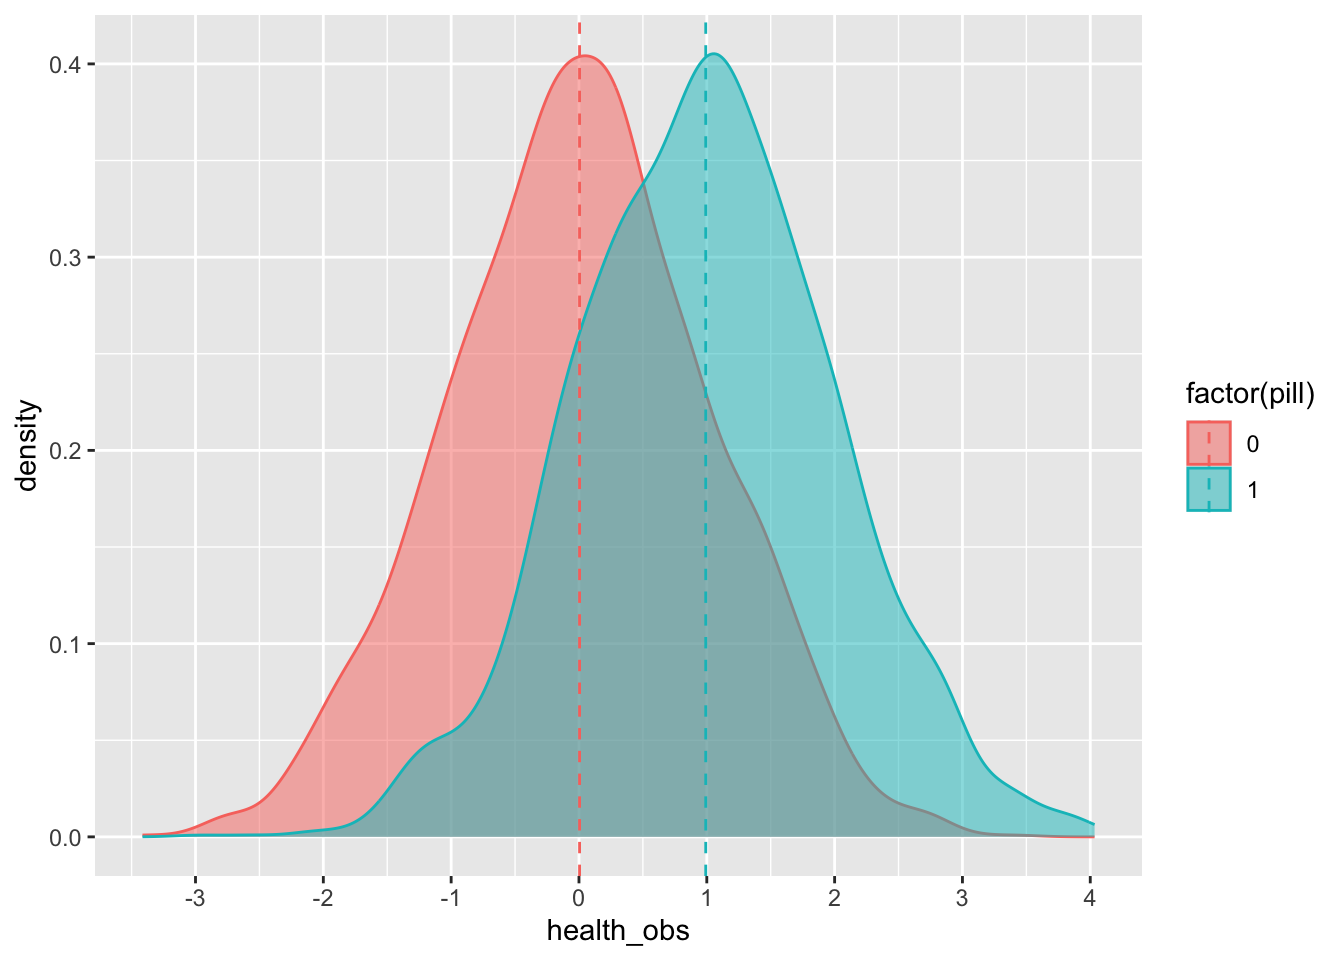
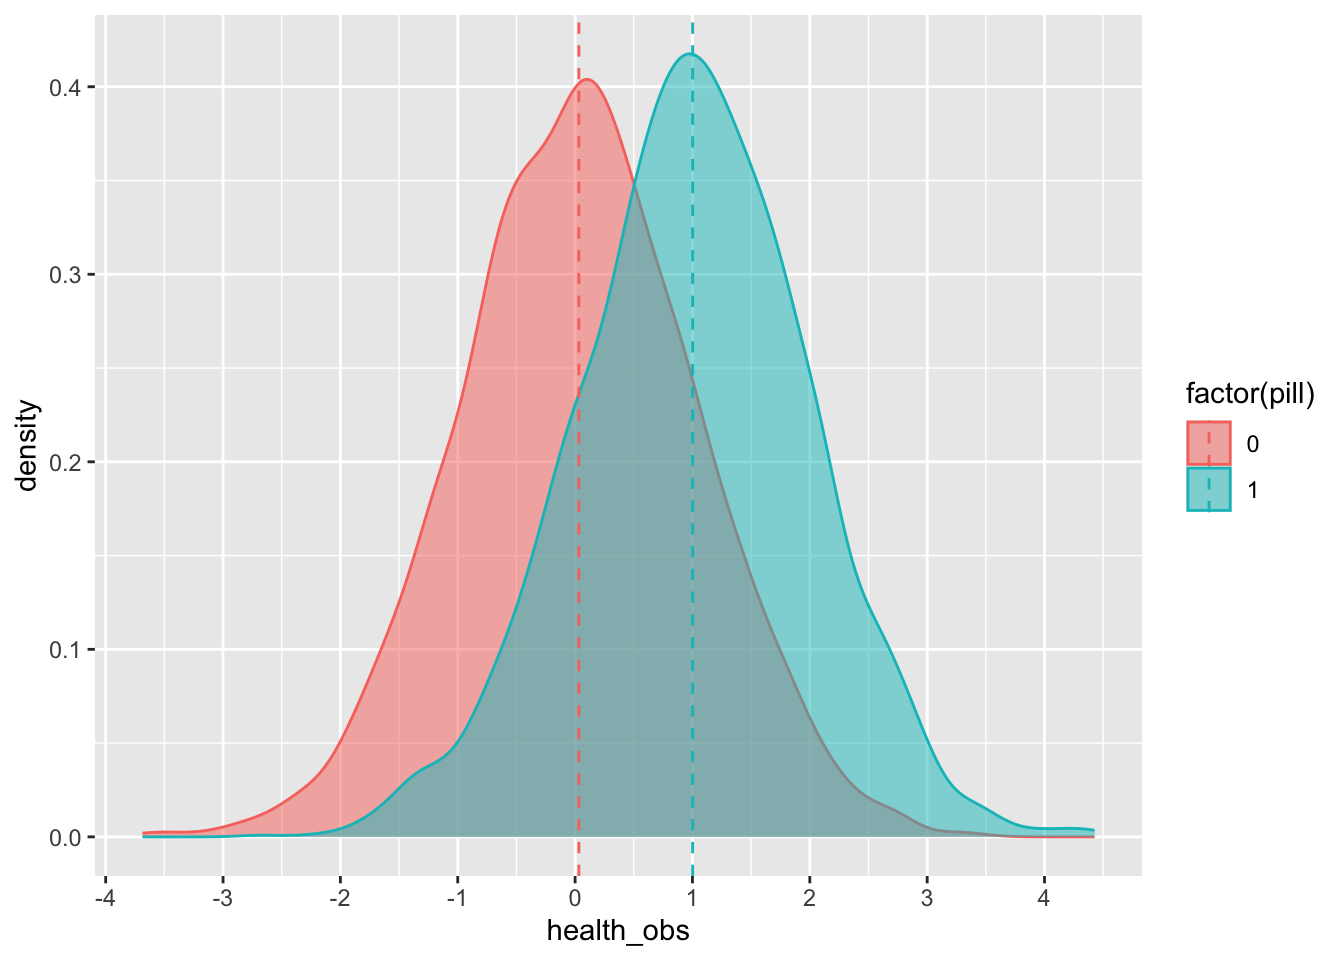
fix?

diff --git a/docs/lecture-2-introduction-to-causal-inference.html b/docs/lecture-2-introduction-to-causal-inference.html
@@ -105,11 +105,11 @@ Figure 2.1: Slides for 3 Introduction to Causal Inference.
 <tbody>
 <tr class="odd">
 <td align="left">0</td>
-<td align="right">2509</td>
+<td align="right">2498</td>
 </tr>
 <tr class="even">
 <td align="left">1</td>
-<td align="right">2491</td>
+<td align="right">2502</td>
 </tr>
 </tbody>
 </table></div>
@@ -146,17 +146,17 @@ Figure 2.1: Slides for 3 Introduction to Causal Inference.
 <pre><code>## mutate: new variable 'health_obs' (double) with 5,000 unique values and 0% NA</code></pre>
 <div class="sourceCode" id="cb12"><pre class="downlit sourceCode r">
 <code class="sourceCode R"><span><span class="fu"><a href="https://rdrr.io/r/utils/head.html">head</a></span><span class="op">(</span><span class="va">df</span>,<span class="fl">10</span><span class="op">)</span></span></code></pre></div>
-<pre><code>##    health_no_pill pill health_w_pill  health_obs
-## 1      0.07330383    1    1.07330383  1.07330383
-## 2     -0.91415442    1    0.08584558  0.08584558
-## 3     -0.80625248    0    0.19374752 -0.80625248
-## 4      0.39410425    0    1.39410425  0.39410425
-## 5      0.77086629    0    1.77086629  0.77086629
-## 6     -2.49958985    0   -1.49958985 -2.49958985
-## 7      0.88305789    0    1.88305789  0.88305789
-## 8      0.94148752    1    1.94148752  1.94148752
-## 9      0.78461707    0    1.78461707  0.78461707
-## 10    -0.04894714    0    0.95105286 -0.04894714</code></pre>
+<pre><code>##    health_no_pill pill health_w_pill health_obs
+## 1      -0.2144358    0     0.7855642 -0.2144358
+## 2       1.0776460    1     2.0776460  2.0776460
+## 3      -1.4136914    0    -0.4136914 -1.4136914
+## 4      -0.7771677    0     0.2228323 -0.7771677
+## 5      -0.5901076    1     0.4098924  0.4098924
+## 6       0.6809355    1     1.6809355  1.6809355
+## 7      -0.2872388    1     0.7127612  0.7127612
+## 8      -0.8326362    1     0.1673638  0.1673638
+## 9       0.1121886    0     1.1121886  0.1121886
+## 10      0.3035960    1     1.3035960  1.3035960</code></pre>
 <p>We can see the average effect of the pill on the treated group (remember from the lecture that the <em>effect</em> is, in essence, the <em>difference</em> between those who receive the treatment, and those who do not):</p>
 <div class="sourceCode" id="cb14"><pre class="downlit sourceCode r">
 <code class="sourceCode R"><span><span class="va">df</span> <span class="op"><a href="https://magrittr.tidyverse.org/reference/pipe.html">%&gt;%</a></span></span>
@@ -165,10 +165,10 @@ Figure 2.1: Slides for 3 Introduction to Causal Inference.
 <pre><code>## group_by: one grouping variable (pill)
 ## summarize: now 2 rows and 2 columns, ungrouped</code></pre>
 <pre><code>## # A tibble: 2 × 2
-##    pill  health
-##   &lt;dbl&gt;   &lt;dbl&gt;
-## 1     0 0.00473
-## 2     1 0.992</code></pre>
+##    pill health
+##   &lt;dbl&gt;  &lt;dbl&gt;
+## 1     0 0.0320
+## 2     1 1.00</code></pre>
 <p>Or we can plot it:</p>
 <div class="sourceCode" id="cb17"><pre class="downlit sourceCode r">
 <code class="sourceCode R"><span><span class="va">df</span> <span class="op"><a href="https://magrittr.tidyverse.org/reference/pipe.html">%&gt;%</a></span></span>
@@ -205,16 +205,16 @@ Figure 2.1: Slides for 3 Introduction to Causal Inference.
 <div class="sourceCode" id="cb21"><pre class="downlit sourceCode r">
 <code class="sourceCode R"><span><span class="fu"><a href="https://rdrr.io/r/utils/head.html">head</a></span><span class="op">(</span><span class="va">df</span>,<span class="fl">10</span><span class="op">)</span></span></code></pre></div>
 <pre><code>##        income health_no_pill health_w_pill  pill health_obs
-## 1  0.90978923      0.9156704     1.9156704  TRUE  1.9156704
-## 2  0.97036087      1.7628784     2.7628784  TRUE  2.7628784
-## 3  0.05888647      0.9284269     1.9284269 FALSE  0.9284269
-## 4  0.64419645      1.2325894     2.2325894 FALSE  1.2325894
-## 5  0.70617119      1.2330499     2.2330499  TRUE  2.2330499
-## 6  0.91608282      0.5918929     1.5918929  TRUE  1.5918929
-## 7  0.47175325      1.2974245     2.2974245 FALSE  1.2974245
-## 8  0.17142790     -0.3309304     0.6690696 FALSE -0.3309304
-## 9  0.63707778      0.3901511     1.3901511 FALSE  0.3901511
-## 10 0.54287154     -1.1529597    -0.1529597 FALSE -1.1529597</code></pre>
+## 1  0.07839879      0.9316725     1.9316725 FALSE  0.9316725
+## 2  0.58013257      0.4381563     1.4381563 FALSE  0.4381563
+## 3  0.86659620      2.5904764     3.5904764  TRUE  3.5904764
+## 4  0.66256664      0.8259672     1.8259672 FALSE  0.8259672
+## 5  0.81855600      1.4384962     2.4384962  TRUE  2.4384962
+## 6  0.37643834     -1.7711729    -0.7711729 FALSE -1.7711729
+## 7  0.62198266      2.3827782     3.3827782 FALSE  2.3827782
+## 8  0.56795280      0.1353779     1.1353779 FALSE  0.1353779
+## 9  0.74269525      0.7055106     1.7055106  TRUE  1.7055106
+## 10 0.43959064      0.6917025     1.6917025 FALSE  0.6917025</code></pre>
 <p>Let’s see what happens now to the estimated mean average ‘effect’ (remember from the lecture that the <em>effect</em> is, in essence, the <em>difference</em> between those who receive the treatment, and those who do not):</p>
 <div class="sourceCode" id="cb23"><pre class="downlit sourceCode r">
 <code class="sourceCode R"><span><span class="va">df</span> <span class="op"><a href="https://magrittr.tidyverse.org/reference/pipe.html">%&gt;%</a></span></span>
@@ -225,22 +225,22 @@ Figure 2.1: Slides for 3 Introduction to Causal Inference.
 <pre><code>## # A tibble: 2 × 2
 ##   pill  health
 ##   &lt;lgl&gt;  &lt;dbl&gt;
-## 1 FALSE  0.345
-## 2 TRUE   1.81</code></pre>
+## 1 FALSE  0.359
+## 2 TRUE   1.84</code></pre>
 <p>Oh no! That is more than the actual effect of the pill, which we <em>know</em> is 1 since we created it. However, if we were to properly model (this is an RDD!), then (remember from the lecture that the <em>effect</em> is, in essence, the <em>difference</em> between those who receive the treatment, and those who do not):</p>
 <div class="sourceCode" id="cb26"><pre class="downlit sourceCode r">
 <code class="sourceCode R"><span><span class="va">df</span> <span class="op"><a href="https://magrittr.tidyverse.org/reference/pipe.html">%&gt;%</a></span></span>
 <span>  <span class="fu">filter</span><span class="op">(</span><span class="fu"><a href="https://rdrr.io/r/base/MathFun.html">abs</a></span><span class="op">(</span><span class="va">income</span><span class="op">-</span><span class="fl">.7</span><span class="op">)</span><span class="op">&lt;</span><span class="fl">.01</span><span class="op">)</span> <span class="op"><a href="https://magrittr.tidyverse.org/reference/pipe.html">%&gt;%</a></span></span>
 <span>  <span class="fu">group_by</span><span class="op">(</span><span class="va">pill</span><span class="op">)</span> <span class="op"><a href="https://magrittr.tidyverse.org/reference/pipe.html">%&gt;%</a></span></span>
 <span>  <span class="fu">summarize</span><span class="op">(</span>health <span class="op">=</span> <span class="fu"><a href="https://rdrr.io/r/base/mean.html">mean</a></span><span class="op">(</span><span class="va">health_obs</span><span class="op">)</span><span class="op">)</span> <span class="co">## BOOM!!</span></span></code></pre></div>
-<pre><code>## filter: removed 9,823 rows (98%), 177 rows remaining
+<pre><code>## filter: removed 9,818 rows (98%), 182 rows remaining
 ## group_by: one grouping variable (pill)
 ## summarize: now 2 rows and 2 columns, ungrouped</code></pre>
 <pre><code>## # A tibble: 2 × 2
 ##   pill  health
 ##   &lt;lgl&gt;  &lt;dbl&gt;
-## 1 FALSE  0.505
-## 2 TRUE   1.61</code></pre>
+## 1 FALSE  0.547
+## 2 TRUE   1.59</code></pre>
 
 </div>
 </div>

diff --git a/docs/lecture-3-core-concepts-of-experimental-design.html b/docs/lecture-3-core-concepts-of-experimental-design.html
@@ -83,7 +83,7 @@
 <div class="sourceCode" id="cb33"><pre class="downlit sourceCode r">
 <code class="sourceCode R"><span><span class="kw"><a href="https://rdrr.io/r/base/library.html">library</a></span><span class="op">(</span><span class="va"><a href="https://tidyverse.tidyverse.org">tidyverse</a></span><span class="op">)</span> <span class="co"># for wrangling data</span></span>
 <span><span class="kw"><a href="https://rdrr.io/r/base/library.html">library</a></span><span class="op">(</span><span class="va"><a href="https://github.com/elbersb/tidylog/">tidylog</a></span><span class="op">)</span> <span class="co"># to know what we are wrangling</span></span>
-<span><span class="kw"><a href="https://rdrr.io/r/base/library.html">library</a></span><span class="op">(</span><span class="va"><a href="https://strengejacke.github.io/sjPlot/">sjPlot</a></span><span class="op">)</span> <span class="co"># to plot some models</span></span>
+<span><span class="kw"><a href="https://rdrr.io/r/base/library.html">library</a></span><span class="op">(</span><span class="va"><a href="https://strengejacke.github.io/sjPlot/">sjPlot</a></span><span class="op">)</span> <span class="co"># to plot somse models</span></span>
 <span><span class="kw"><a href="https://rdrr.io/r/base/library.html">library</a></span><span class="op">(</span><span class="va"><a href="https://github.com/sjewo/readstata13">readstata13</a></span><span class="op">)</span> <span class="co"># to load .dta files</span></span></code></pre></div>
 <p>Our variable of interest (DV, Y) is paid_work_yes: whether the person worked or not. Our treatment variable is treat: whether they got the pamphlet or not. Because this is an experiment, we can compare the averages of the treatment group and the control group to estimate the causal effect.</p>
 <div class="sourceCode" id="cb34"><pre class="downlit sourceCode r">
